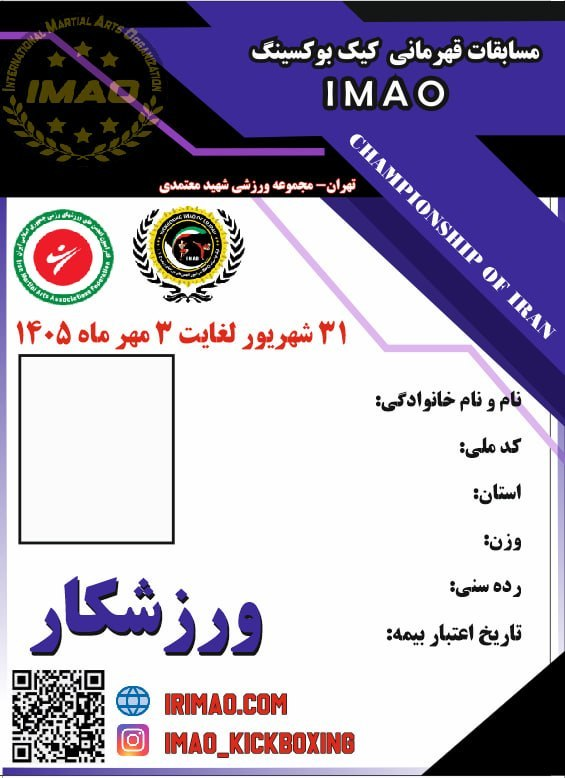
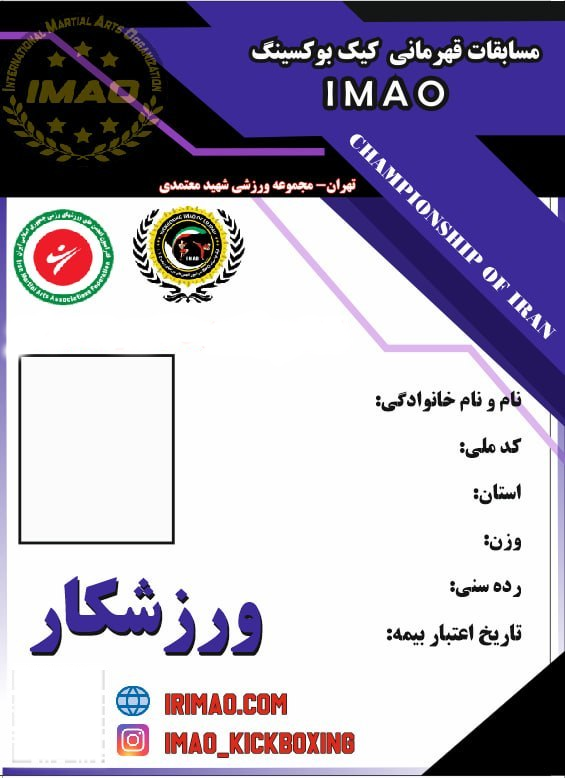
Align competition date to the left edge with no background pill
Use the updated template (date text and QR placeholder removed from
the artwork) and fix the date overlay's alignment: flex-start resolves
to the visual right edge under the card's RTL context, so flex-end is
needed to anchor the text at the left. Also drop the white background
now that the image no longer needs it for contrast.

Changed region(s): [[0.0, 0.401, 0.6319, 0.4627], [0.0, 0.8638, 0.2106, 0.9871]]

diff --git a/includes/Services/CompetitionCards.php b/includes/Services/CompetitionCards.php
@@ -280,7 +280,7 @@ class CompetitionCards {
         ob_start(); ?>
 <!doctype html><html lang="fa" dir="rtl"><head><meta charset="utf-8"><meta name="viewport" content="width=device-width,initial-scale=1"><title>کارت مسابقه</title>
 <style>
-*{box-sizing:border-box}html,body{margin:0;min-height:100%;background:#202124;font-family:Tahoma,Arial,sans-serif}.toolbar{position:sticky;top:0;z-index:2;padding:10px;text-align:center;background:#fff}.toolbar button{padding:8px 20px;border:0;border-radius:5px;background:#17134b;color:#fff;font:700 14px Tahoma;cursor:pointer}.page{display:flex;justify-content:center;padding:18px}.card{position:relative;width:min(92vw,574px);aspect-ratio:565/776;background:center/100% 100% no-repeat;overflow:hidden;box-shadow:0 8px 30px #0008}.competition-date{position:absolute;z-index:2;top:39.5%;left:2%;width:86%;height:6%;display:flex;align-items:center;justify-content:center;background:#fff;color:#c32921;font-size:clamp(12px,2.7vw,20px);font-weight:700;white-space:nowrap}.field{position:absolute;z-index:3;right:40%;width:22%;height:4.3%;display:flex;align-items:center;color:#050505;padding:0;font-weight:700;font-size:clamp(11px,2.1vw,18px);line-height:1}.field b{display:none}.field span{width:100%;text-align:right;white-space:nowrap;overflow:hidden;text-overflow:ellipsis}.name{top:48.85%;right:40%;width:30%}.national-id{top:54.85%}.province{top:60.85%}.weight{top:66.85%}.age{top:72.85%}.insurance{top:78.85%;right:37%;width:15%}.photo{position:absolute;z-index:3;left:3.5%;top:45.2%;width:28%;height:24%;background:#fff;border:3px solid #070707;object-fit:cover}.qr{position:absolute;z-index:3;left:2%;top:86%;width:15%;height:11%;display:block;background:#fff;object-fit:contain}.print-note{display:none}
+*{box-sizing:border-box}html,body{margin:0;min-height:100%;background:#202124;font-family:Tahoma,Arial,sans-serif}.toolbar{position:sticky;top:0;z-index:2;padding:10px;text-align:center;background:#fff}.toolbar button{padding:8px 20px;border:0;border-radius:5px;background:#17134b;color:#fff;font:700 14px Tahoma;cursor:pointer}.page{display:flex;justify-content:center;padding:18px}.card{position:relative;width:min(92vw,574px);aspect-ratio:565/776;background:center/100% 100% no-repeat;overflow:hidden;box-shadow:0 8px 30px #0008}.competition-date{position:absolute;z-index:2;top:39.5%;left:2%;width:86%;height:6%;display:flex;align-items:center;justify-content:flex-end;color:#c32921;font-size:clamp(12px,2.7vw,20px);font-weight:700;white-space:nowrap}.field{position:absolute;z-index:3;right:40%;width:22%;height:4.3%;display:flex;align-items:center;color:#050505;padding:0;font-weight:700;font-size:clamp(11px,2.1vw,18px);line-height:1}.field b{display:none}.field span{width:100%;text-align:right;white-space:nowrap;overflow:hidden;text-overflow:ellipsis}.name{top:48.85%;right:40%;width:30%}.national-id{top:54.85%}.province{top:60.85%}.weight{top:66.85%}.age{top:72.85%}.insurance{top:78.85%;right:37%;width:15%}.photo{position:absolute;z-index:3;left:3.5%;top:45.2%;width:28%;height:24%;background:#fff;border:3px solid #070707;object-fit:cover}.qr{position:absolute;z-index:3;left:2%;top:86%;width:15%;height:11%;display:block;background:#fff;object-fit:contain}.print-note{display:none}
 @page{size:A4 portrait;margin:0}@media print{html,body{width:100%;height:100%;background:#fff}.toolbar{display:none}.page{width:100%;height:100%;padding:0;align-items:center}.card{height:100vh;width:auto;max-width:100vw;box-shadow:none;print-color-adjust:exact;-webkit-print-color-adjust:exact}}
 </style></head><body><div class="toolbar"><button type="button" onclick="window.print()">چاپ / ذخیره PDF</button></div><main class="page"><section class="card" style="background-image:url('<?php echo esc_url( $data['background'] ); ?>')">
 <div class="competition-date"><?php echo $e( $data['competition_dates'] ); ?></div>
